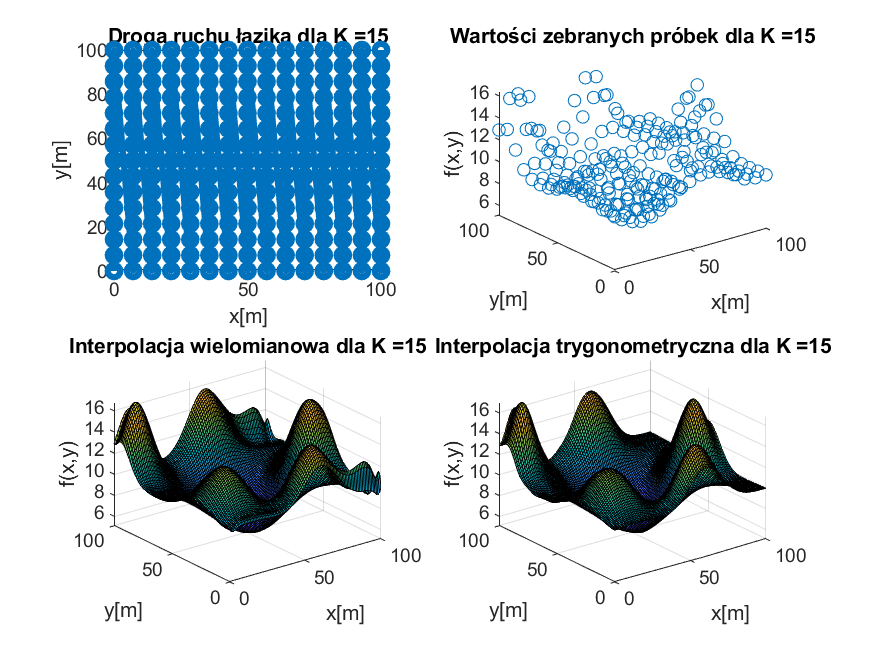
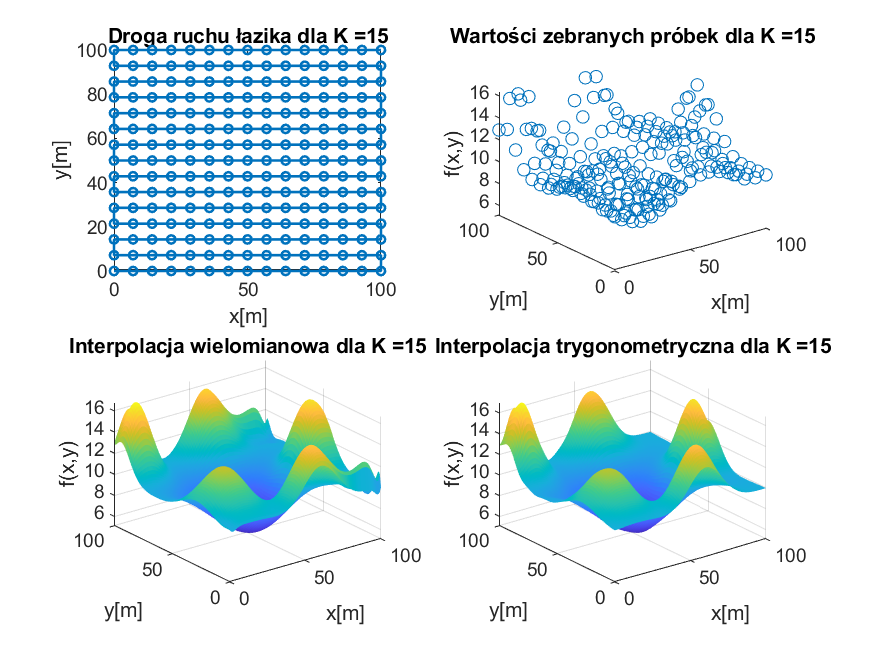
Finish lab5

Changed region(s): [[0.1234, 0.061, 0.4629, 0.4268], [0.1234, 0.5793, 0.432, 0.8232], [0.5554, 0.5793, 0.864, 0.8232]]

diff --git a/lab5/lab5_1.m b/lab5/lab5_1.m
@@ -2,10 +2,10 @@ K = [5, 15, 25, 33];
 
 [XX,YY] = meshgrid(linspace(0,100,101),linspace(0,100,101));
 for i = K
-    [x,y,f] = lazik(i);
+    [x,y,f,xp,yp] = lazik(i);
 
     subplot(2,2,1);
-    plot(x,y,'-o','linewidth',3);
+    plot(xp,yp,'-o','linewidth',1.25, 'markersize', 4);
     title(strcat("Droga ruchu łazika dla K =", num2str(i)));
     ylabel("y[m]");
     xlabel("x[m]");
@@ -22,6 +22,7 @@ for i = K
 
     subplot(2,2,3);
     surf(XX,YY,FF);
+    shading flat;
     title(strcat("Interpolacja wielomianowa dla K =", num2str(i)));
     ylabel("y[m]");
     xlabel("x[m]");
@@ -32,7 +33,7 @@ for i = K
 
     subplot(2,2,4);
     surf(XX,YY,FF);
-    surf(XX,YY,FF);
+    shading flat;
     title(strcat("Interpolacja trygonometryczna dla K =", num2str(i)));
     ylabel("y[m]");
     xlabel("x[m]");
